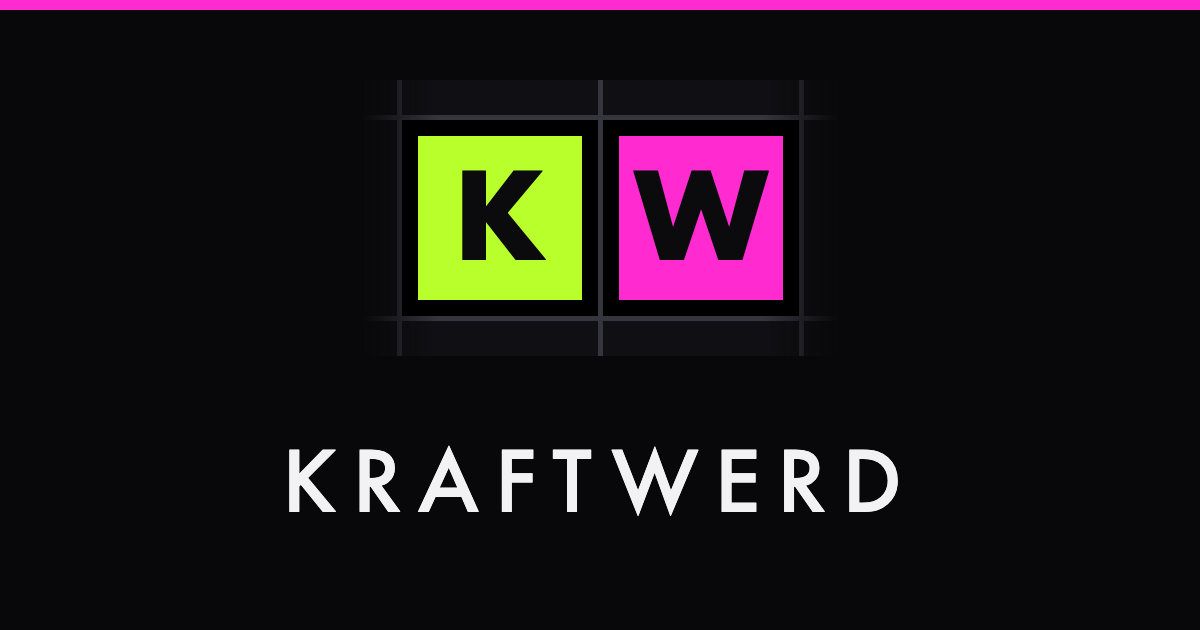
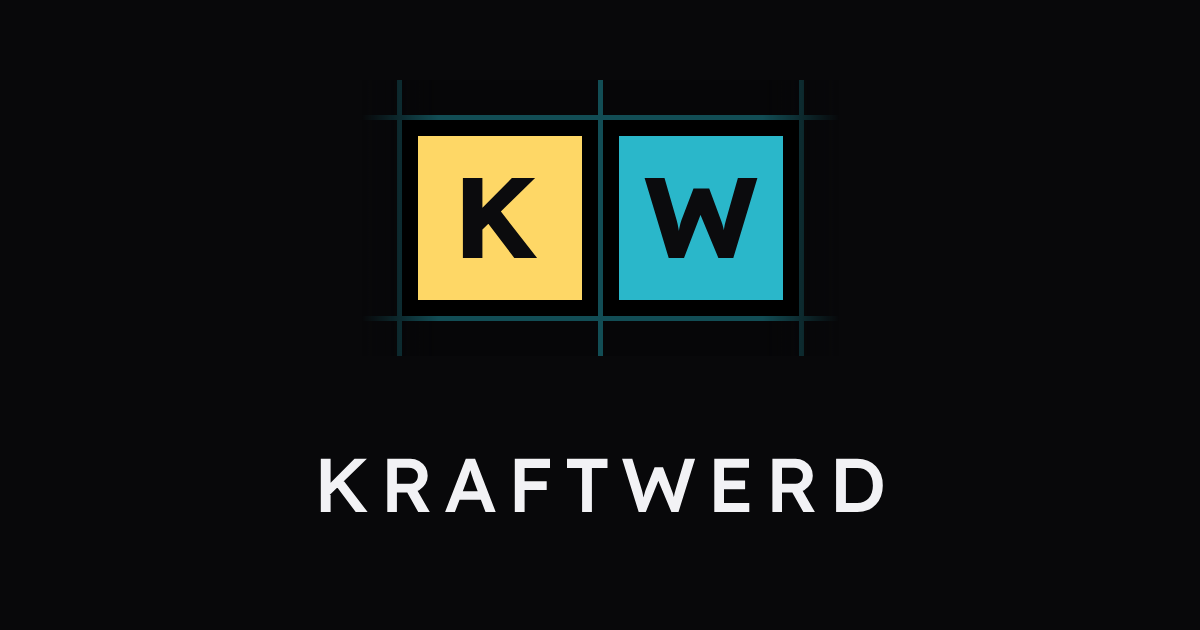
feat(brand): share image in Royal Gold, Pacific and Readex Pro
The link-preview card still showed the old lime and magenta tiles in
Futura. It now has the header mark's two tiles, K in Royal Gold and W in
Pacific, on the dark board, with every letter drawn as a Readex Pro
outline the way the favicon is: crawlers render it without the web font.

Nothing baked by render-assets sets text any more, so its check for an
installed Futura and the --allow-font-fallback flag go. og:image gains
?v=kw2 so previews fetch the new card rather than a cached one.

Changed region(s): [[0.3392, 0.1206, 0.6783, 0.5429], [0.2158, 0.6937, 0.7708, 0.8143], [0.0, 0.0, 1.0, 0.0302]]

diff --git a/index.html b/index.html
@@ -62,10 +62,10 @@
     <meta property="og:url" content="https://kraftwerd.benapps.xyz" />
     <!-- Absolute, and a raster: crawlers resolve it outside the page and
          several will not render an SVG. -->
-    <meta property="og:image" content="https://kraftwerd.benapps.xyz/og.png" />
+    <meta property="og:image" content="https://kraftwerd.benapps.xyz/og.png?v=kw2" />
     <meta property="og:image:width" content="1200" />
     <meta property="og:image:height" content="630" />
-    <meta property="og:image:alt" content="Two tiles played side by side on the board, a lime K and a magenta W, above the word kraftwerd" />
+    <meta property="og:image:alt" content="Two tiles played side by side on the board, a gold K and a teal W, above the word kraftwerd" />
     <!-- The words live here rather than in the picture: Slack, Discord and most
          mail clients render these as text, and a card whose message is baked
          into a PNG says nothing when the image does not load. -->
